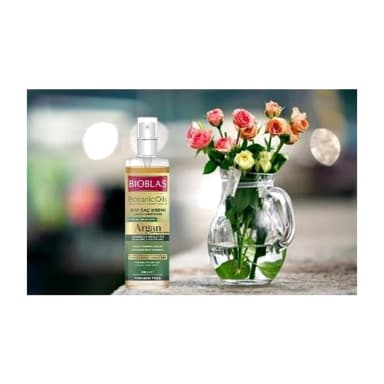
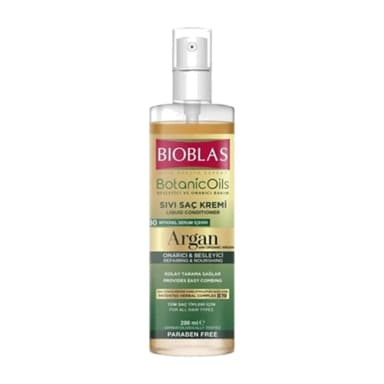
Give four products their own photograph back
The Bioblas argan liquid 7066 stood beside a vase of roses, its conditioner
7011 in front of foliage, the Mr White Mickey tube 3033 on a Disney pattern,
the Kraeuterhof Hyaluron ampoules 2043 on splashing water. All four were in
SCENE_PHOTOS, which was the right answer while it was the only one: the fill
walks into a patterned ground and comes back out with half the product.

A packshot on plain white now exists for each of them, so the reason is gone.
Reframed over their originals and cut like the other two thousand products —
the fill found one whole piece every time, nothing came apart, nothing kept a
white box. The cards show the product at 86% of the tile on the lit well
instead of a photograph of a table.

The Duratape 9462 was looked at in the same pass and stays a picture: what
exists for it is a crop of a pink advertising banner, and neutral() refuses
pink, so the fill would stop at the first step and ship a hard rectangle
under a drop shadow. Daktanol 9664, Dentissimo 7194 and the melkfett cream
2037 stay as they are too — the only files going for them were 184x80, 51x201
and 72x84 enlargements of screenshots of this site, which is a way of making
a card worse.

ingest-photo.mjs is the missing seam this needed. Everything else that writes
public/products/ is driven by a list the repo already holds, so a photograph
from outside had no way in. It reframes one file over one product's original
[…]

diff --git a/audit/cutout-contact-sheet.html b/audit/cutout-contact-sheet.html
@@ -10,19 +10,8 @@ figcaption{font-size:11px;color:#456}
 <h2>A backdrop still shows (0)</h2><div class="g">
 </div><h2>Kept their white background — cut-out rejected (0)</h2><div class="g">
 </div><h2>First 120 of the rest</h2><div class="g">
-<figure><img src="../public/products/6051-labella-frozen-olaf-6051-cutout-v5.webp" loading="lazy"><figcaption>6051 · segmented<br>Labella frozen Olaf (6051)</figcaption></figure>
-<figure><img src="../public/products/3032-disney-mickey-and-friends-brush-me-vibrim-3-3032-cutout-v4.webp" loading="lazy"><figcaption>3032 · segmented<br>Disney Mickey and Friends Brush me Vibri</figcaption></figure>
-<figure><img src="../public/products/3037-disney-mickey-mouse-brush-soft-3-3037-cutout-v5.webp" loading="lazy"><figcaption>3037 · segmented<br>Disney Mickey Mouse Brush Soft 3+ (3037)</figcaption></figure>
-<figure><img src="../public/products/3042-winx-brush-soft-3-3042-cutout-v5.webp" loading="lazy"><figcaption>3042 · segmented<br>Winx Brush Soft 3+ (3042)</figcaption></figure>
-<figure><img src="../public/products/3043-winx-travel-kit-soft-3-3043-cutout-v5.webp" loading="lazy"><figcaption>3043 · segmented<br>Winx Travel Kit Soft 3+ (3043)</figcaption></figure>
-<figure><img src="../public/products/3046-minions-paste-mint-75ml-3-3046-cutout-v5.webp" loading="lazy"><figcaption>3046 · segmented<br>Minions Paste Mint 75ml 3+ (3046)</figcaption></figure>
-<figure><img src="../public/products/3058-spiderman-paste-mint-3-3058-cutout-v5.webp" loading="lazy"><figcaption>3058 · segmented<br>Spiderman Paste Mint 3+ (3058)</figcaption></figure>
-<figure><img src="../public/products/3059-spiderman-brush-soft-timer-2-min-flashing-3-3059-cutout-v5.webp" loading="lazy"><figcaption>3059 · segmented<br>Spiderman Brush Soft Timer 2-min Flashin</figcaption></figure>
-<figure><img src="../public/products/3060-spiderman-travel-kit-soft-3-3060-cutout-v4.webp" loading="lazy"><figcaption>3060 · segmented<br>Spiderman Travel Kit Soft 3+ (3060)</figcaption></figure>
-<figure><img src="../public/products/3063-disney-princess-brush-soft-timer-2min-flashing-3-3063-cutout-v4.webp" loading="lazy"><figcaption>3063 · segmented<br>Disney Princess Brush Soft Timer 2min Fl</figcaption></figure>
-<figure><img src="../public/products/3064-disney-princess-brush-soft-3-3064-cutout-v5.webp" loading="lazy"><figcaption>3064 · segmented<br>Disney Princess Brush Soft 3+ (3064)</figcaption></figure>
-<figure><img src="../public/products/3066-disney-101-dalmatins-brush-soft-timer-2min-flashing-3-3066-cutout-v4.webp" loading="lazy"><figcaption>3066 · segmented<br>Disney 101 Dalmatins Brush Soft Timer 2m</figcaption></figure>
-<figure><img src="../public/products/3067-paw-patrol-soft-timer-3-3067-cutout-v5.webp" loading="lazy"><figcaption>3067 · segmented<br>Paw Patrol Soft Timer 3+ (3067)</figcaption></figure>
-<figure><img src="../public/products/3068-paw-patrol-travel-kit-soft-3-3068-cutout-v4.webp" loading="lazy"><figcaption>3068 · segmented<br>Paw Patrol Travel Kit Soft 3+ (3068)</figcaption></figure>
-<figure><img src="../public/products/3070-barbie-brush-me-vibrim-soft-4-3070-cutout-v4.webp" loading="lazy"><figcaption>3070 · segmented<br>Barbie Brush me Vibrim Soft 4+ (3070)</figcaption></figure>
+<figure><img src="../public/products/7066-argan-liquid-conditioner-200ml-7066-cutout-v2.webp" loading="lazy"><figcaption>7066 · floodfill<br>Bioblas Argan Liquid Conditioner 200ml (</figcaption></figure>
+<figure><img src="../public/products/2043-hyaluron-face-ampullenkur-beauty-treatment-14-x-2ml-2043-cutout-v2.webp" loading="lazy"><figcaption>2043 · floodfill<br>Hyaluron Face Ampullenkur Beauty Treatme</figcaption></figure>
+<figure><img src="../public/products/7011-bioblas-hair-care-conditioner-argan-250ml-7011-cutout-v2.webp" loading="lazy"><figcaption>7011 · floodfill<br>Bioblas hair care conditioner argan 250m</figcaption></figure>
+<figure><img src="../public/products/3033-disney-mickey-and-friends-paste-mint-75ml-3-3033-cutout-v2.webp" loading="lazy"><figcaption>3033 · floodfill<br>Disney Mickey and Friends Paste Mint 75m</figcaption></figure>
 </div>

diff --git a/audit/cutout-images.md b/audit/cutout-images.md
@@ -1,23 +1,23 @@
-# Product cut-outs — 2026-09-07
+# Product cut-outs — 2026-09-10
 
 Target: development (DATABASE_URL_DEVELOPMENT: ep-rapid-cherry-aj1pxq2q-pooler.c-3.us-east-2.aws.neon.tech/neondb)
 Mode:   WRITE (database + products.json updated)
 
 | | |
 |---|---|
-| Photos cut out | 15 |
-| — from a segmentation model's cut | 15 |
+| Photos cut out | 4 |
+| — from a segmentation model's cut | 0 |
 | — from Jara's original alpha | 0 |
 | — from the old catalogue's alpha | 0 |
 | — filled from the old catalogue's white photo | 0 |
-| — white background flood-filled | 0 |
+| — white background flood-filled | 4 |
 | Kept their white background (cut-out rejected) | 0 |
 | A backdrop still shows | 0 |
 | Reframed after a slab came off | 0 |
 | Pictures, trimmed and shown full bleed | 0 |
 | Came apart under the fill | 0 |
 | Skipped | 0 |
-| Unchanged (identical to what is served) | 24 |
+| Unchanged (identical to what is served) | 0 |
 
 ## Came apart under the fill (0)
 
